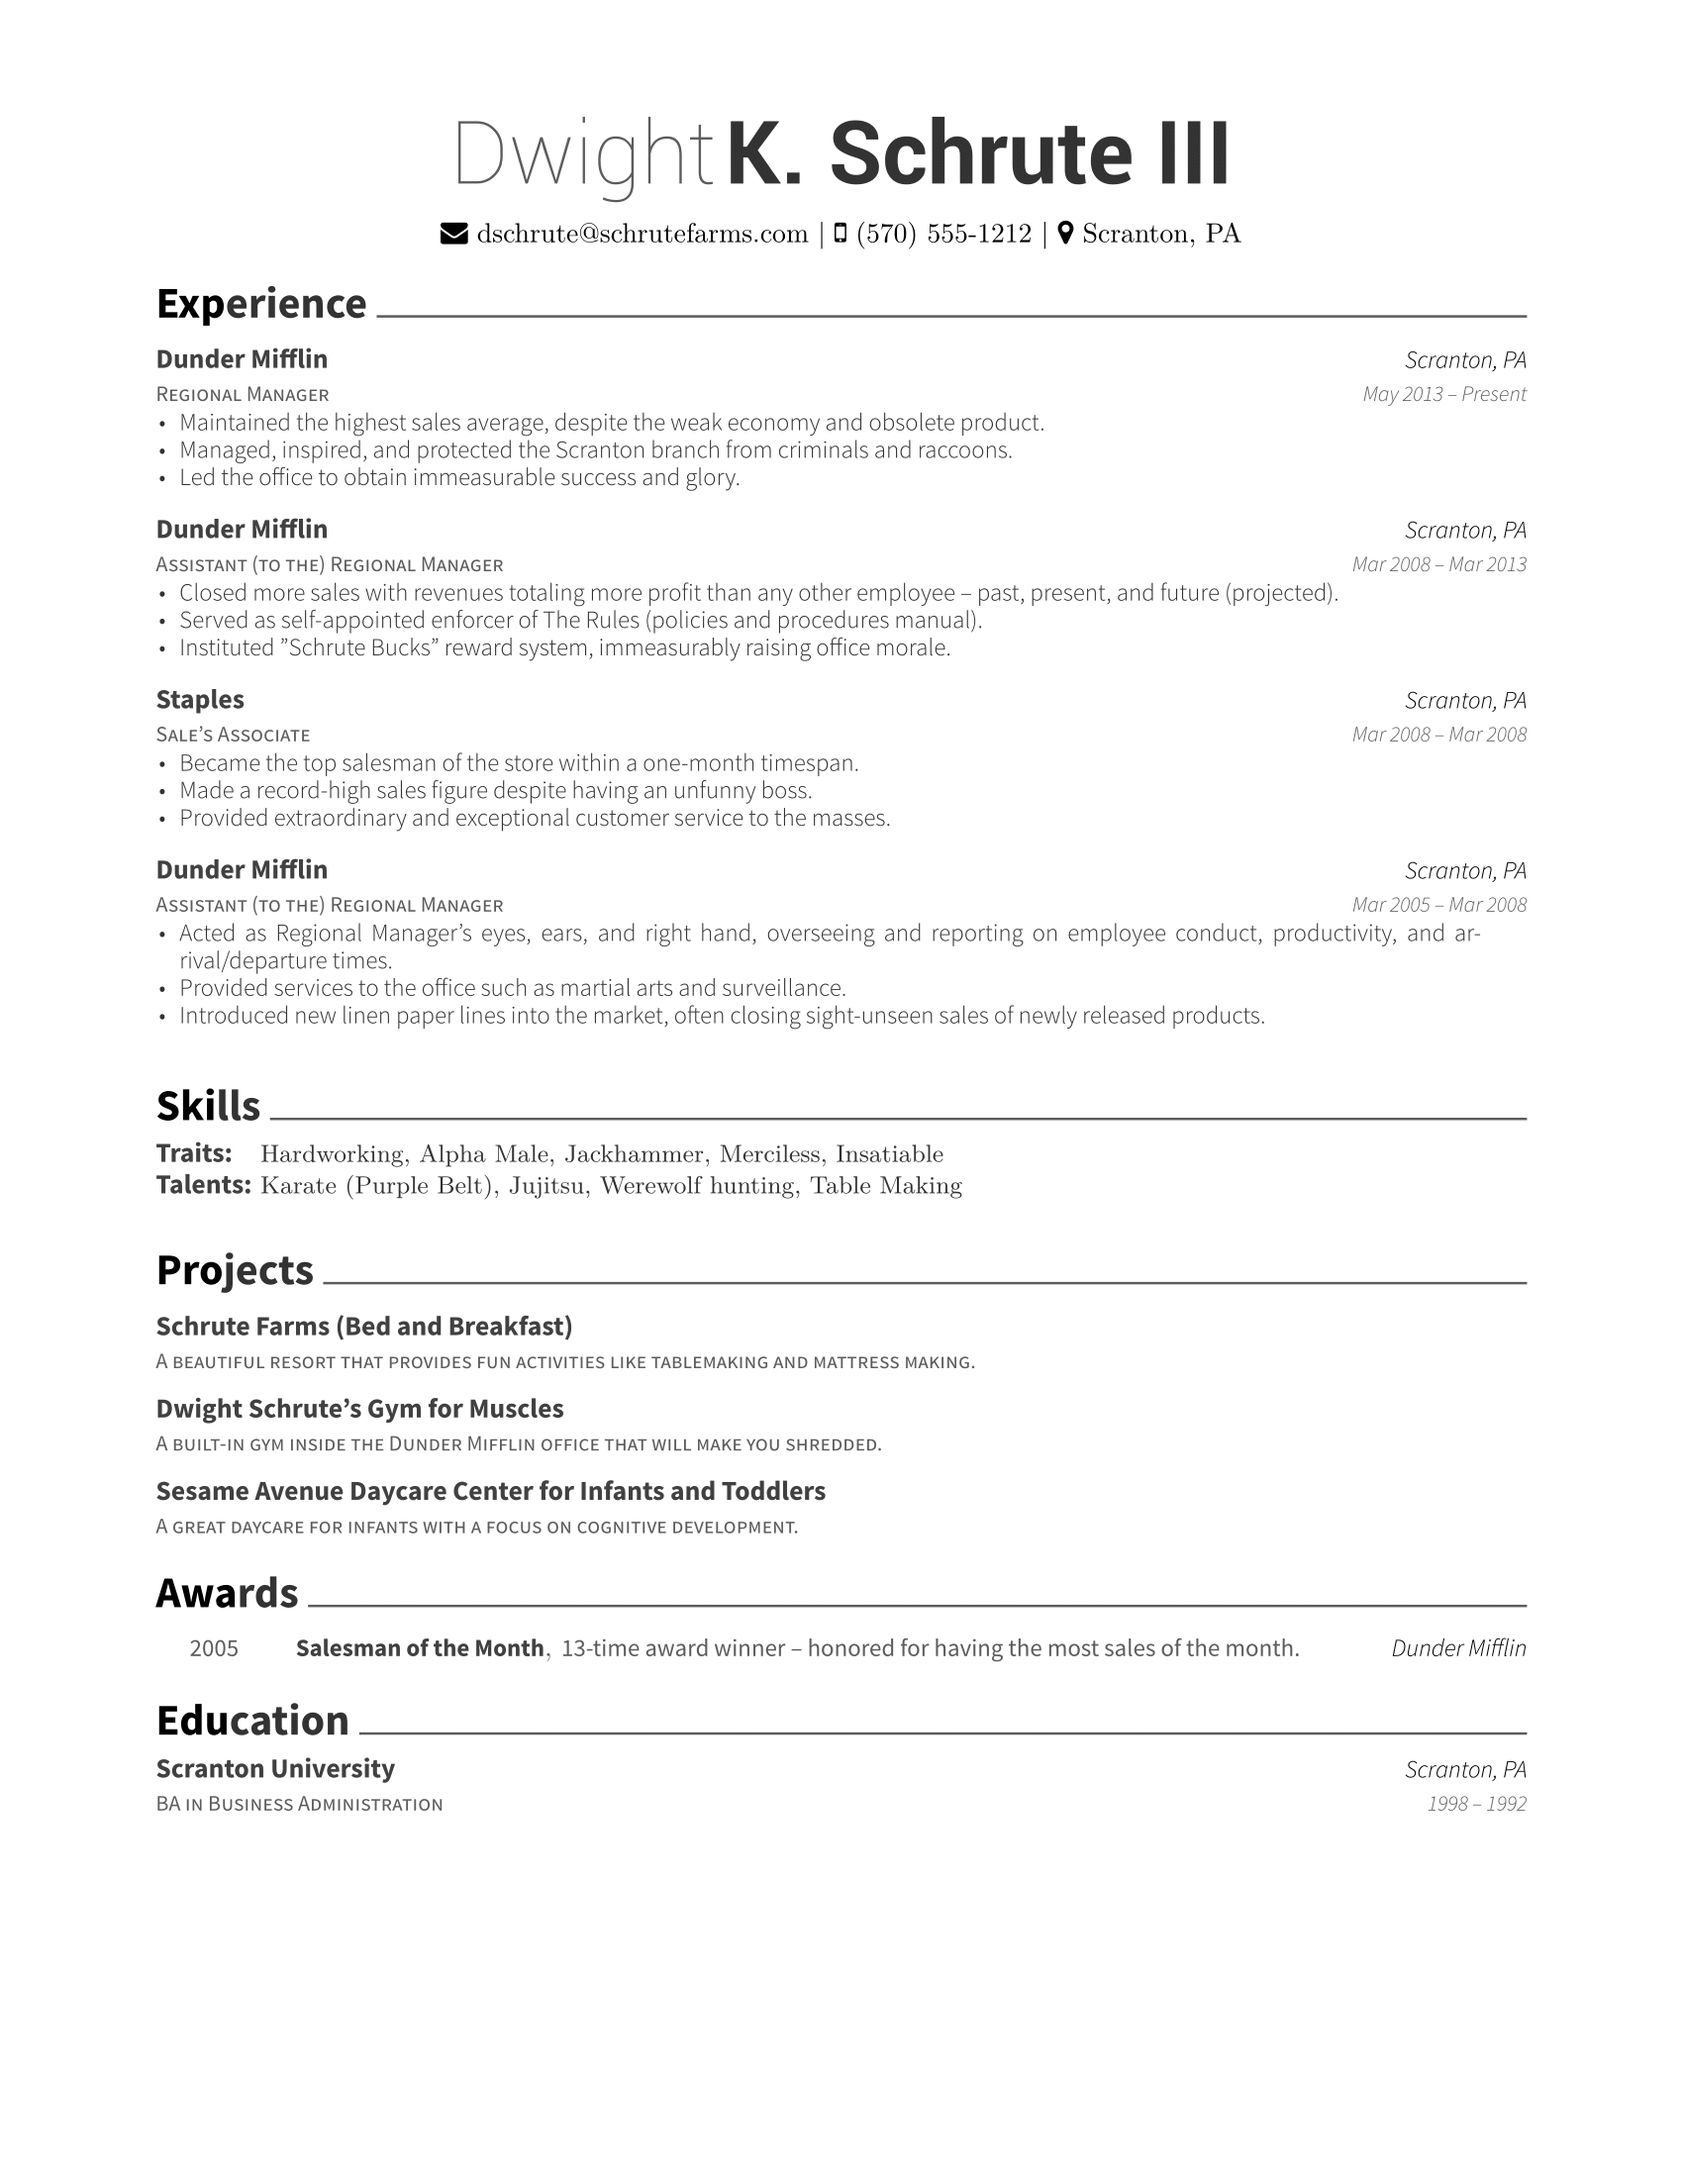
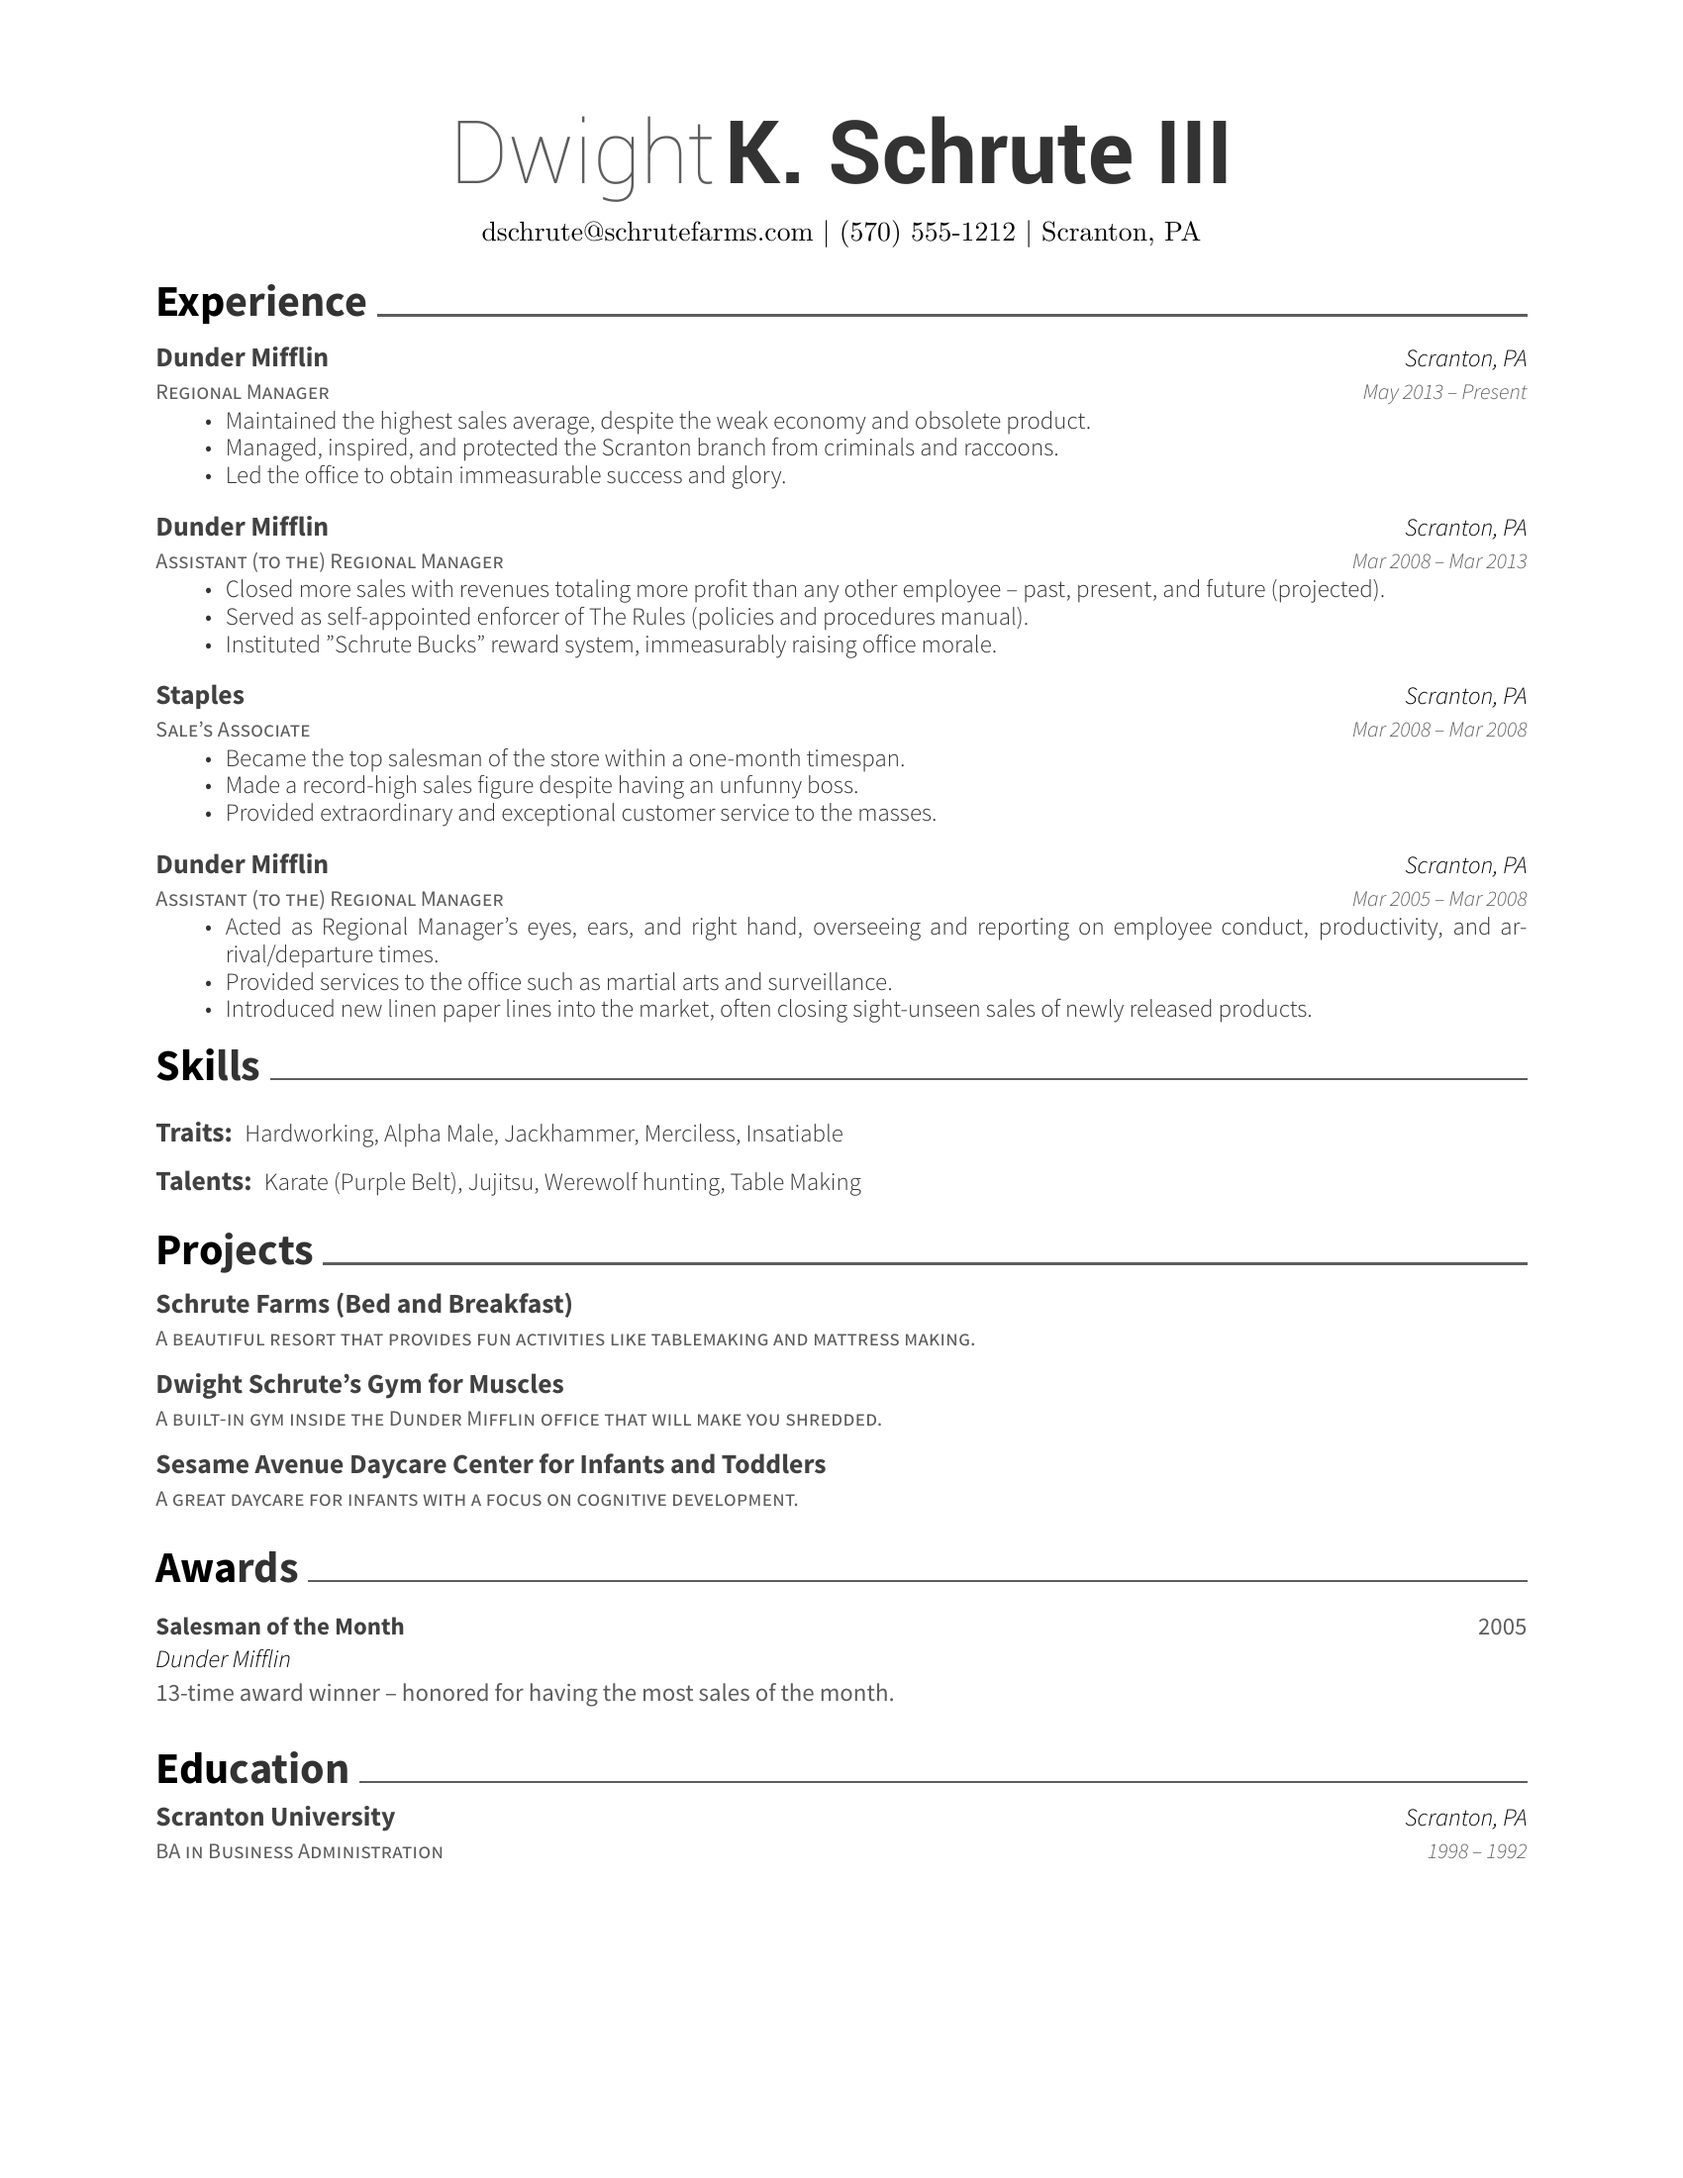
fix(templates): make templates 1, 2, 3, 6, 7 extract cleanly from PDF
- template 1: one skill per line; company, title, location, dates order
- template 2: no common ligatures or contact icons; award and project rows rebuilt
- template 3: real gap between name and contact details
- template 6: tighter heading spacing; title before dates, name before URL
- template 7: wider date column, real bullets, text contact labels
- README: correct the template count to 9
- add dependency-free generator regression tests

diff --git a/src/lib/templates/template2.ts b/src/lib/templates/template2.ts
@@ -27,14 +27,10 @@ const generator: Generator = {
       nameLine = `\\headerfirstnamestyle{${nameStart}} \\headerlastnamestyle{${nameEnd}} \\\\`
     }
 
-    const emailLine = email ? `{\\faEnvelope\\ ${email}}` : ''
-    const phoneLine = phone ? `{\\faMobile\\ ${phone}}` : ''
-    const addressLine = location.address
-      ? `{\\faMapMarker\\ ${location.address}}`
-      : ''
-    const websiteLine = website
-      ? `{\\faLink\\ \\href{${website}}{${website}}}`
-      : ''
+    const emailLine = email || ''
+    const phoneLine = phone || ''
+    const addressLine = location.address || ''
+    const websiteLine = website ? `\\href{${website}}{${website}}` : ''
     const info = [emailLine, phoneLine, addressLine, websiteLine]
       .filter(Boolean)
       .join(' | ')
@@ -118,10 +114,11 @@ const generator: Generator = {
       \\cvsection{${heading || 'Experience'}}
       \\begin{cventries}
       ${work.map((job) => {
-        const { company, position, location, startDate, endDate, highlights } = job
+        const { company, position, location, startDate, endDate, highlights } =
+          job
 
         let dateRange
-        let dutyLines
+        let dutyLines = ''
 
         if (startDate && endDate) {
           dateRange = `${startDate} – ${endDate}`
@@ -131,7 +128,7 @@ const generator: Generator = {
           dateRange = endDate
         }
 
-        if (highlights) {
+        if (highlights?.some(Boolean)) {
           dutyLines = source`
             \\begin{cvitems}
               ${highlights.map((duty) => `\\item {${duty}}`)}
@@ -159,24 +156,13 @@ const generator: Generator = {
 
     return source`
       \\cvsection{${heading || 'Skills'}}
-      \\begin{cventries}
-      \\cventry
-      {}
-      {\\def\\arraystretch{1.15}{\\begin{tabular}{ l l }
+      \\begingroup\\raggedright
       ${skills.map((skill) => {
         const { name, keywords = [] } = skill
-        const nameLine = name ? `${name}: ` : ''
-        const detailsLine = `{\\skill{ ${keywords.join(', ') || ''}}}`
-
-        return `${nameLine} & ${detailsLine} \\\\`
+        const nameLine = name ? `\\entrytitlestyle{${name}:} ` : ''
+        return `${nameLine}\\skill{${keywords.join(', ')}}\\par`
       })}
-      \\end{tabular}}}
-      {}
-      {}
-      {}
-      \\end{cventries}
-
-      \\vspace{-7mm}
+      \\endgroup
     `
   },
 
@@ -193,14 +179,11 @@ const generator: Generator = {
         const urlLine = url ? `\\href{${url}}{${url}}` : ''
 
         return stripIndent`
-          \\cventry
-            {${description || ''}}
+          \\cvproject
             {${name || ''}}
-            {${keywords.join(', ') || ''}}
+            {${keywords.join(', ')}}
             {${urlLine}}
-            {}
-
-          \\vspace{-5mm}
+            {${description || ''}}
         `
       })}
       \\end{cventries}

diff --git a/src/lib/templates/template7.ts b/src/lib/templates/template7.ts
@@ -93,7 +93,7 @@ const generator: Generator = {
           dateRange = endDate
         }
 
-        if (highlights) {
+        if (highlights?.some(Boolean)) {
           highlightLines = source`
             \\begin{itemize}%
               ${highlights.map((highlight) => `\\item ${highlight}`)}
@@ -210,6 +210,13 @@ const generator: Generator = {
       \\usepackage{textcomp}
       % moderncv themes
       \\moderncvstyle{classic}                             % style options are 'casual' (default), 'classic', 'oldstyle' and 'banking'
+      \\renewcommand*{\\labelitemi}{\\textcolor{color1}{\\textbullet}}
+      \\renewcommand*{\\mobilephonesymbol}{Phone:~}
+      \\renewcommand*{\\emailsymbol}{Email:~}
+      \\renewcommand*{\\homepagesymbol}{Website:~}
+      \\hyphenpenalty=10000
+      \\exhyphenpenalty=10000
+      \\emergencystretch=2em
       \\moderncvcolor{blue}                               % color options 'blue' (default), 'orange', 'green', 'red', 'purple', 'grey' and 'black'
       %\\renewcommand{\\familydefault}{\\sfdefault}         % to set the default font; use '\\sfdefault' for the default sans serif font, '\\rmdefault' for the default roman one, or any tex font name
       %\\nopagenumbers{}                                  % uncomment to suppress automatic page numbering for CVs longer than one page
@@ -220,7 +227,7 @@ const generator: Generator = {
 
       % adjust the page margins
       \\usepackage[scale=0.75]{geometry}
-      %\\setlength{\\hintscolumnwidth}{3cm}                % if you want to change the width of the column with the dates
+      \\setlength{\\hintscolumnwidth}{3.6cm}                % if you want to change the width of the column with the dates
       %\\setlength{\\makecvtitlenamewidth}{10cm}           % for the 'classic' style, if you want to force the width allocated to your name and avoid line breaks. be careful though, the length is normally calculated to avoid any overlap with your personal info; use this at your own typographical risks...
     `
   }

diff --git a/src/lib/templates/template1.ts b/src/lib/templates/template1.ts
@@ -107,7 +107,8 @@ const generator: Generator = {
       \\vspace{1mm}
 
       ${work.map((job) => {
-        const { company, position, location, startDate, endDate, highlights } = job
+        const { company, position, location, startDate, endDate, highlights } =
+          job
 
         let line1 = ''
         let line2 = ''
@@ -117,12 +118,12 @@ const generator: Generator = {
           line1 += `\\textbf{${company}}`
         }
 
-        if (location) {
-          line1 += ` \\hfill ${location}`
-        }
-
         if (position) {
           line2 += `\\textit{${position}}`
+        }
+
+        if (location) {
+          line2 += `${line2 ? ', ' : ''}${location}`
         }
 
         if (startDate && endDate) {
@@ -136,7 +137,7 @@ const generator: Generator = {
         if (line1) line1 += '\\\\'
         if (line2) line2 += '\\\\'
 
-        if (highlights) {
+        if (highlights?.some(Boolean)) {
           highlightLines = source`
               \\vspace{-1mm}
               \\begin{itemize} \\itemsep 1pt
@@ -161,12 +162,10 @@ const generator: Generator = {
 
     return source`
       \\header{${heading || 'Skills'}}
-      \\begin{tabular}{ l l }
       ${skills.map((skill) => {
         const { name = 'Misc', keywords = [] } = skill
-        return `${name}: & ${keywords.join(', ')} \\\\`
+        return `${name}: ${keywords.join(', ')}\\par`
       })}
-      \\end{tabular}
       \\vspace{2mm}
     `
   },

diff --git a/src/lib/templates/template3.ts b/src/lib/templates/template3.ts
@@ -16,9 +16,8 @@ const generator: Generator = {
       .join(' | ')
 
     return stripIndent`
-      \\begin{tabular*}{7in}{l@{\\extracolsep{\\fill}}r}
-      \\textbf{\\Large ${name}} & \\textit{${info}}
-      \\end{tabular*}
+      \\noindent\\parbox[t]{0.30\\textwidth}{\\textbf{\\Large ${name || ''}}}\\hfill
+      \\parbox[t]{0.67\\textwidth}{\\raggedleft\\textit{${info}}}\\par
     `
   },
 
@@ -97,10 +96,11 @@ const generator: Generator = {
       %%%%%%%%%%%%%%%%%%%%%%%%%%%%%%
       \\begin{itemize}[leftmargin=*]
       ${work.map((job) => {
-        const { company, position, location, startDate, endDate, highlights } = job
+        const { company, position, location, startDate, endDate, highlights } =
+          job
 
         let dateRange
-        let dutyLines
+        let dutyLines = ''
 
         if (startDate && endDate) {
           dateRange = `${startDate} | ${endDate}`
@@ -110,7 +110,7 @@ const generator: Generator = {
           dateRange = endDate
         }
 
-        if (highlights) {
+        if (highlights?.some(Boolean)) {
           dutyLines = source`
             \\begin{itemize}
               ${highlights.map((duty) => `\\item ${duty}`)}

diff --git a/src/lib/templates/template6.ts b/src/lib/templates/template6.ts
@@ -111,7 +111,7 @@ const generator: Omit<Generator, 'resumeHeader'> = {
           dateRange = endDate
         }
 
-        if (highlights) {
+        if (highlights?.some(Boolean)) {
           dutyLines = source`
             \\begin{newitemize}
               ${highlights.map((duty) => `\\item {${duty}}`)}

diff --git a/test/index.js b/test/index.js
@@ -1,0 +1,7 @@
+// Node versions that resolve an explicit test directory as a module need an entry point.
+const fs = require('node:fs')
+const path = require('node:path')
+
+for (const file of fs.readdirSync(__dirname)) {
+  if (file.endsWith('.test.cjs')) require(path.join(__dirname, file))
+}

diff --git a/README.md b/README.md
@@ -4,7 +4,7 @@ A resume builder for generating elegant LaTeX resumes without writing any TeX co
 
 ## Features
 
-- **Visual template picker** — choose from 6 LaTeX templates with live previews
+- **Visual template picker** — choose from 9 LaTeX templates with live previews
 - **Live PDF preview** — see your resume update in real time with zoom, pagination, and download controls
 - **Dynamic form sections** — add and remove entries for experience, education, projects, skills, and more
 - **LaTeX special character sanitization** — user input is automatically escaped before compilation
@@ -73,7 +73,7 @@ NEXT_PUBLIC_LATEX_API_URL=http://localhost:3027
 
 ## Templates
 
-6 templates are included, each compiled with either `pdflatex` or `xelatex` depending on the template's requirements.
+9 templates are included, each compiled with either `pdflatex` or `xelatex` depending on the template's requirements.
 
 ## Credits
 
